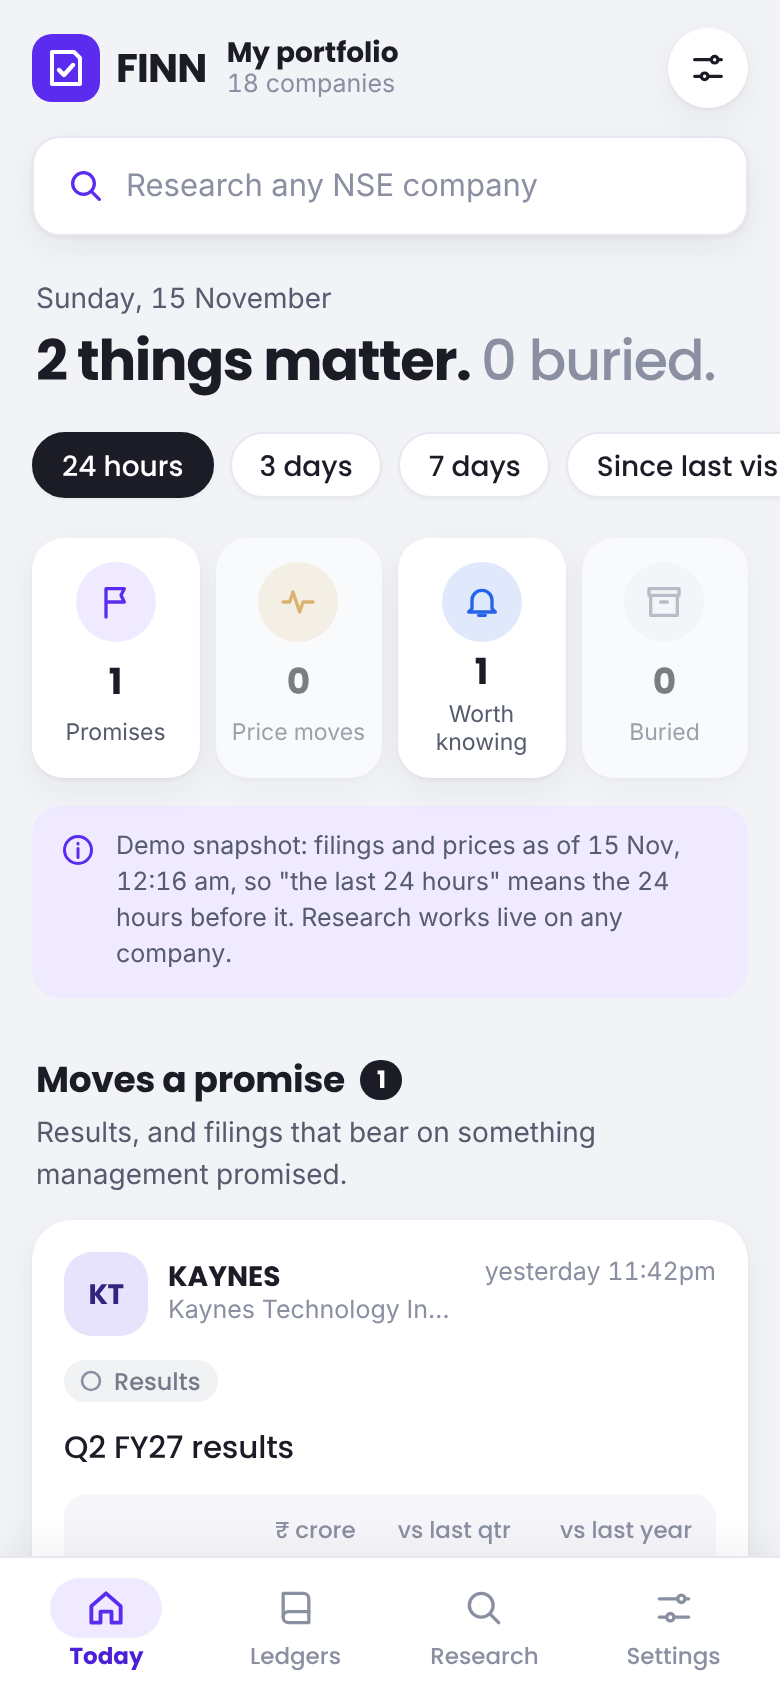
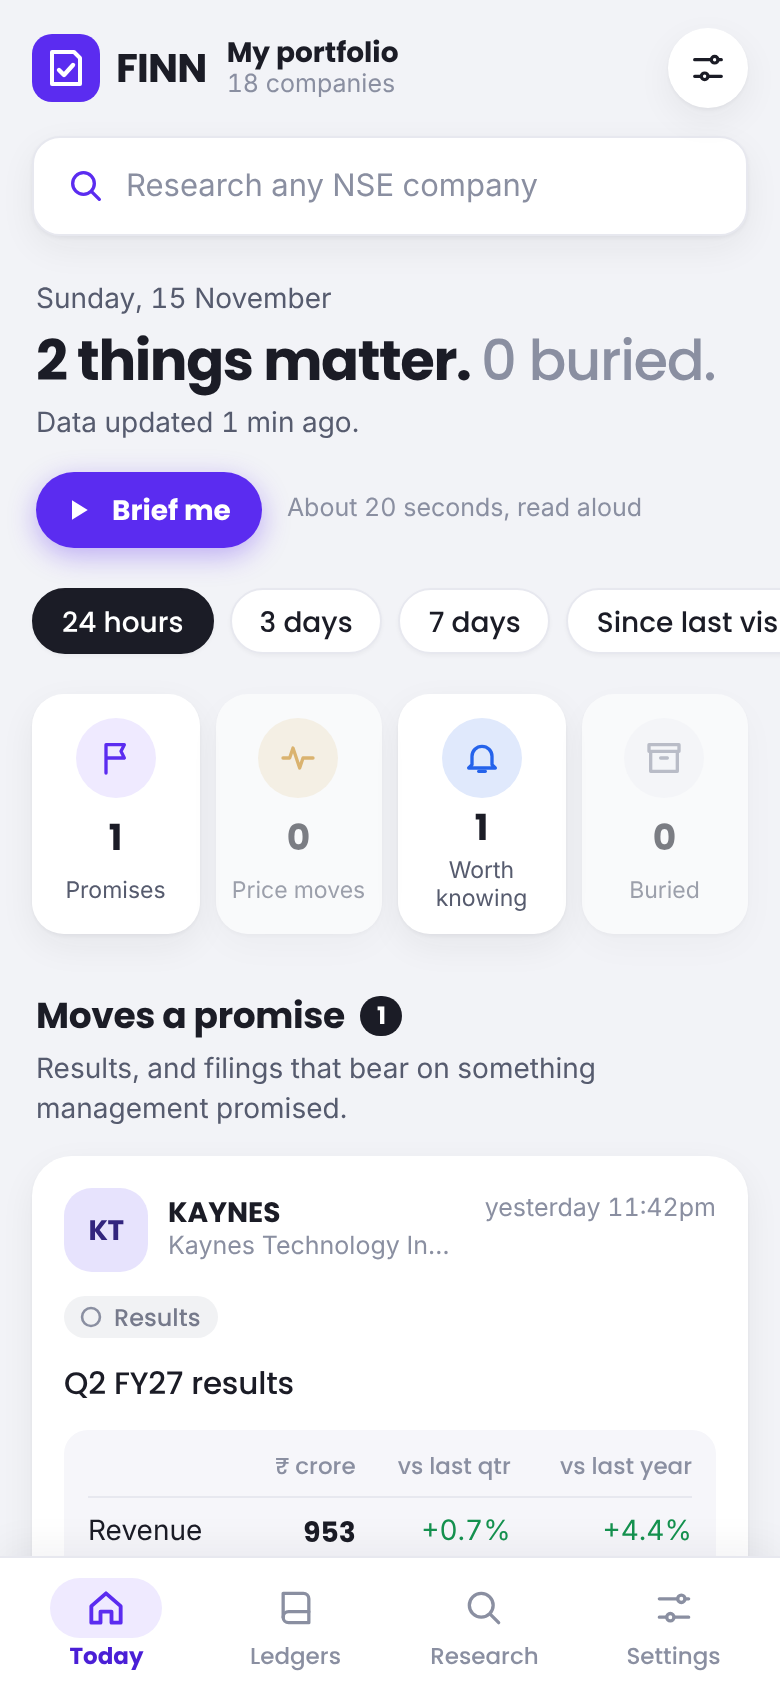
README: new screenshots (Brief me, Ask on the next call); live since 15 Nov

diff --git a/README.md b/README.md
@@ -6,14 +6,14 @@
   <tr>
     <td><img src="docs/today.png" width="200" alt="Today: the filings that matter as cards, the rest buried"></td>
     <td><img src="docs/ledger.png" width="200" alt="Bharat Electronics: FINN's read and the promise ledger"></td>
+    <td><img src="docs/ask.png" width="200" alt="Ask on the next call: questions for management built from the ledger"></td>
     <td><img src="docs/bullbear.png" width="200" alt="Bull and bear cases argued from the company's own numbers and promises"></td>
-    <td><img src="docs/ledgers.png" width="200" alt="Ledgers: every company's promises at a glance, filterable"></td>
   </tr>
   <tr>
-    <td>Today: what moved a promise, the rest buried</td>
+    <td>Today: what matters, the rest buried; Brief me reads it aloud</td>
     <td>A company: FINN's read, then every promise</td>
+    <td>Ask on the next call</td>
     <td>Bull vs bear, argued from the page</td>
-    <td>Every company's track record</td>
   </tr>
 </table>
 
@@ -59,8 +59,9 @@ The deployed app runs on **live data, refreshed automatically** by a free GitHub
 | 7:10 pm, Monday to Friday | New filings and the day's closing prices |
 | 9:30 am, Saturday | Everything, including new earnings-call transcripts, annual reports and verdicts |
 
-Until the first scheduled refresh (Monday 16 Nov, 10:00 am IST), it shows the snapshot it
-started from: real data as of 15 Nov 2026, 12:16 am IST. That snapshot holds:
+It started from a frozen snapshot of real data as of 15 Nov 2026, 12:16 am IST, and
+switched to live data on the evening of 15 Nov. The figures quoted in this README come
+from that snapshot, which held:
 
 - **Promise ledgers** from the last five earnings calls of 18 NSE companies, plus 5 more prepared for research.
 - **Exchange filings** from the previous 30 days: 212 of them.
@@ -68,9 +69,9 @@ started from: real data as of 15 Nov 2026, 12:16 am IST. That snapshot holds:
 - **Company pages**: business snapshots read from each latest annual report, bull and bear
   cases, ten-year figures, balance sheet and cash quality.
 
-While the snapshot is showing, times in the app ("the last 24 hours") are measured from
-that moment, and a note on the Today screen says so. After a refresh, they are measured
-from now, and Settings shows when the data was last refreshed.
+Times in the app ("the last 24 hours") are measured from now, and Today shows when the
+data was last refreshed. Frozen again with `pipeline.freeze`, they are measured from the
+snapshot's moment instead, and a note on Today says so.
 
 **The Research tab is always live:** type any NSE symbol and FINN reads its transcripts and
 annual report and builds the ledger on demand.
